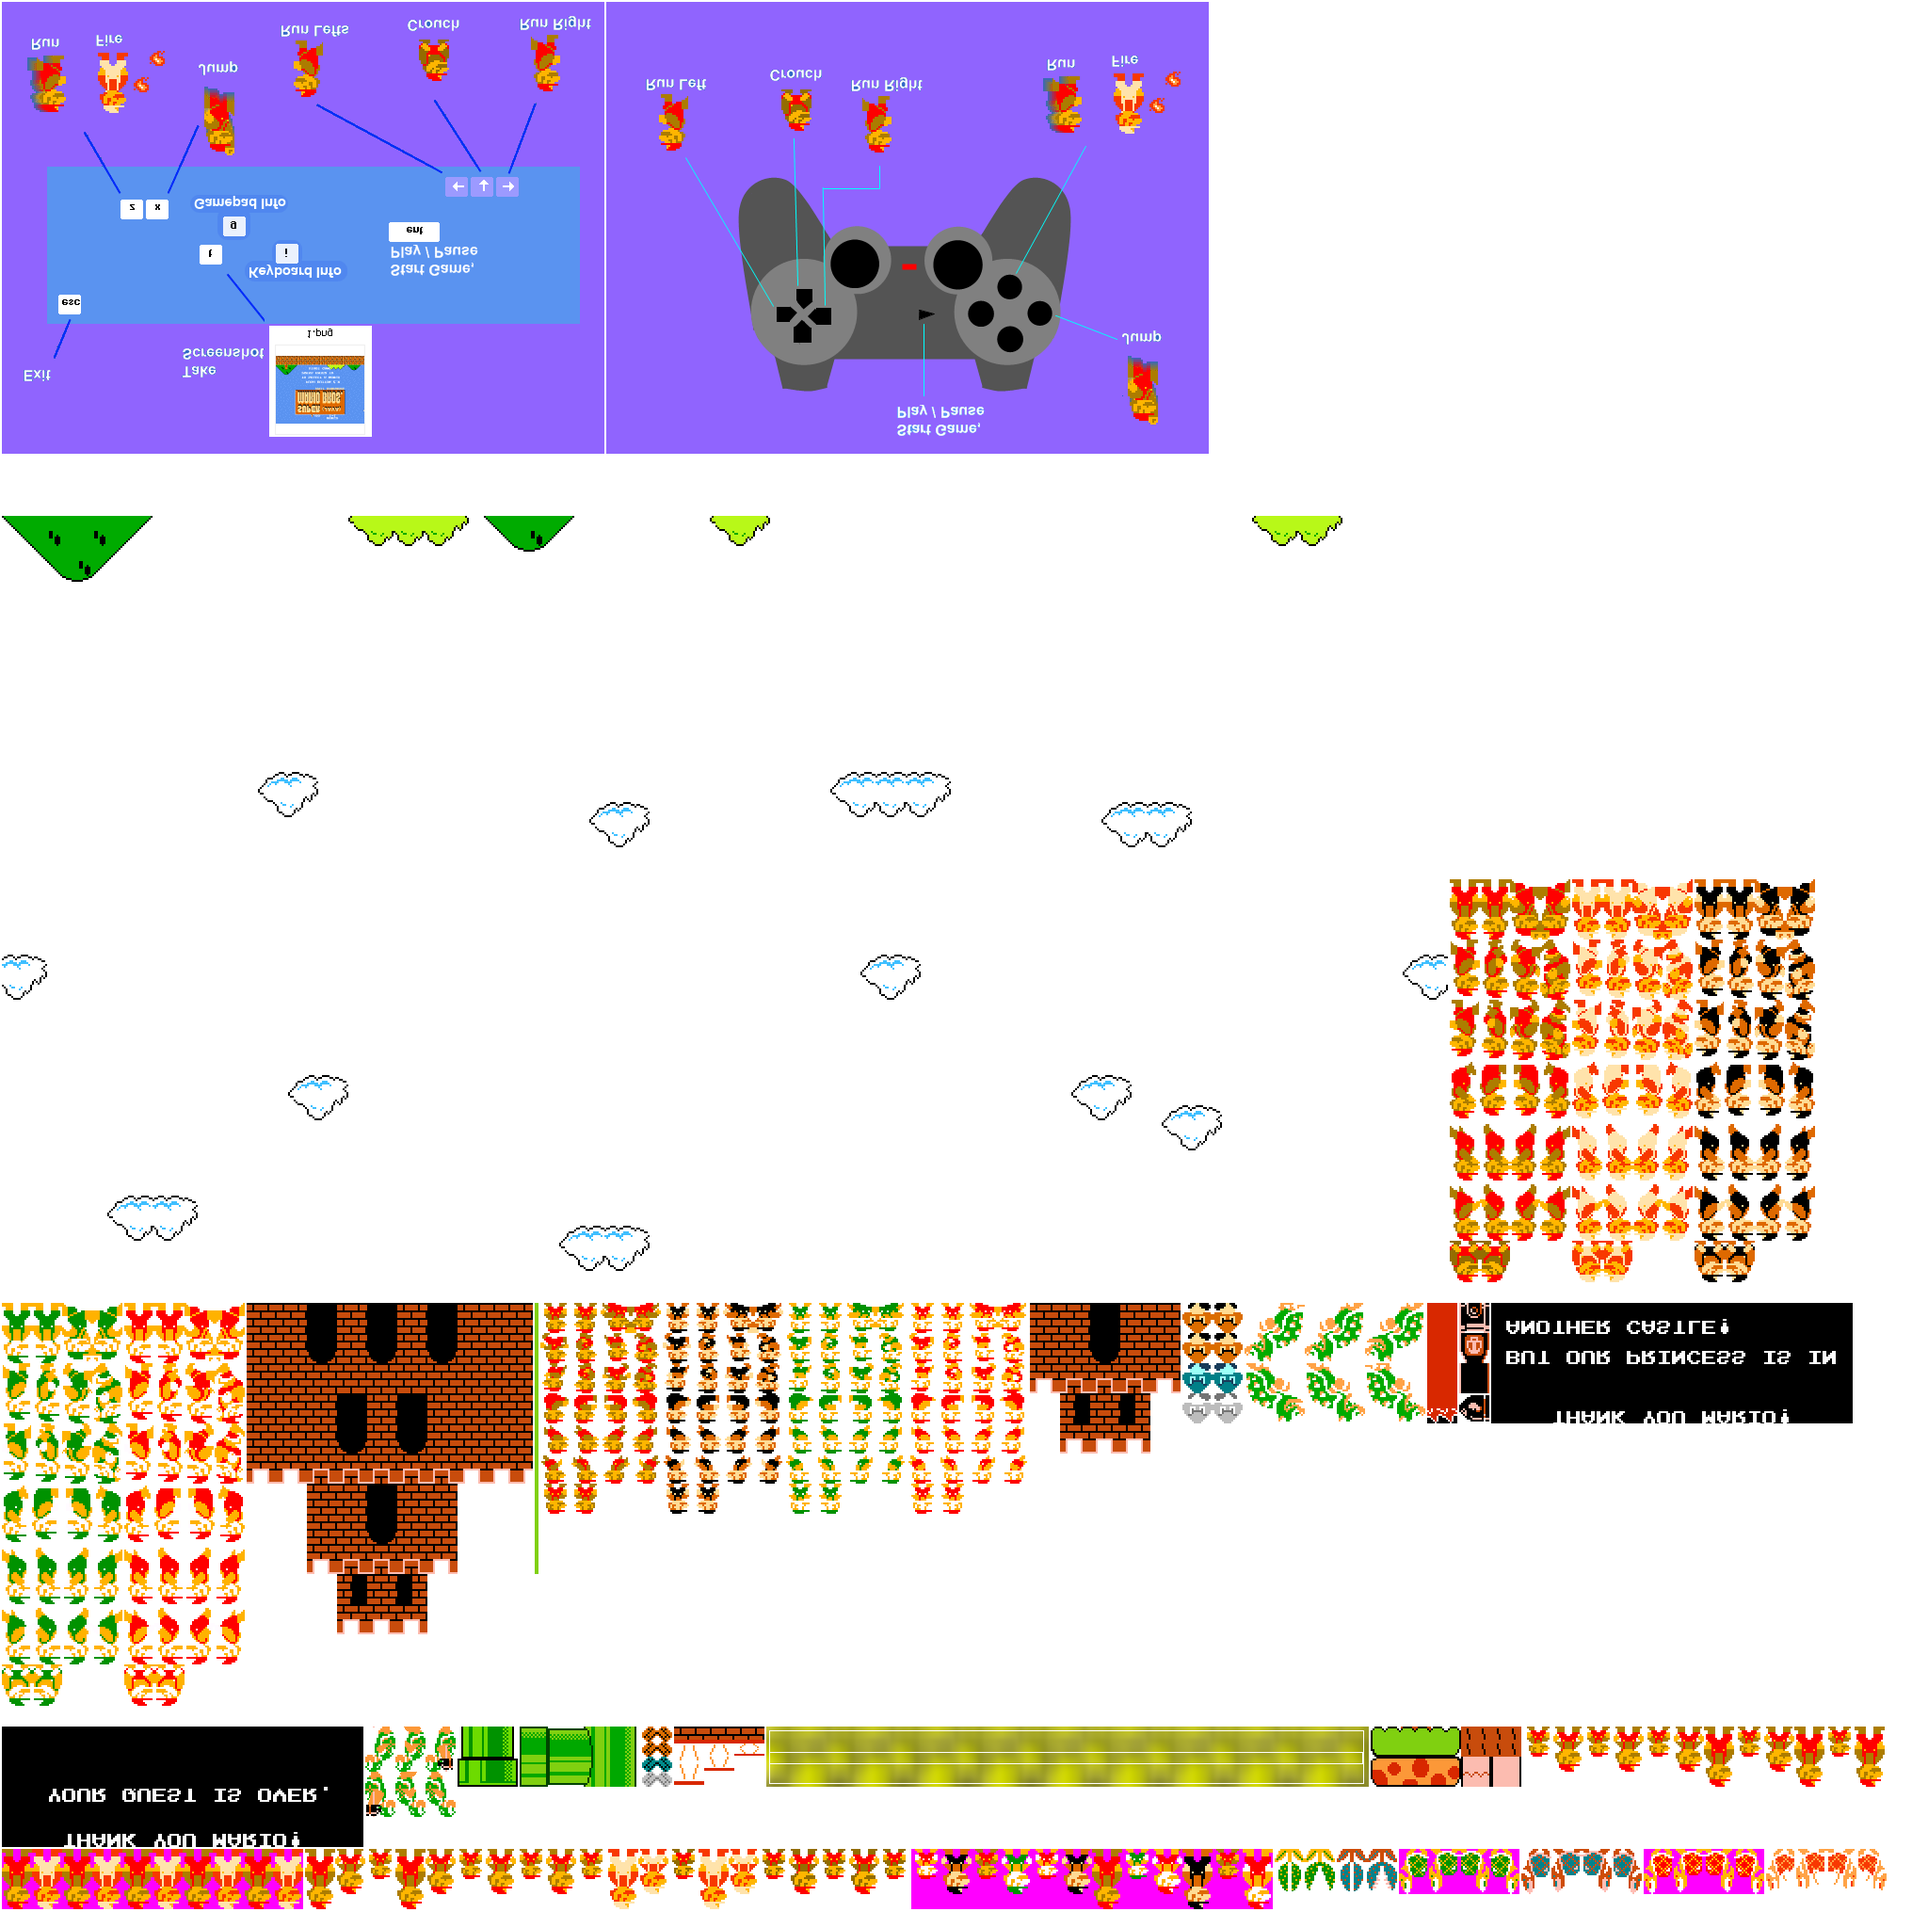
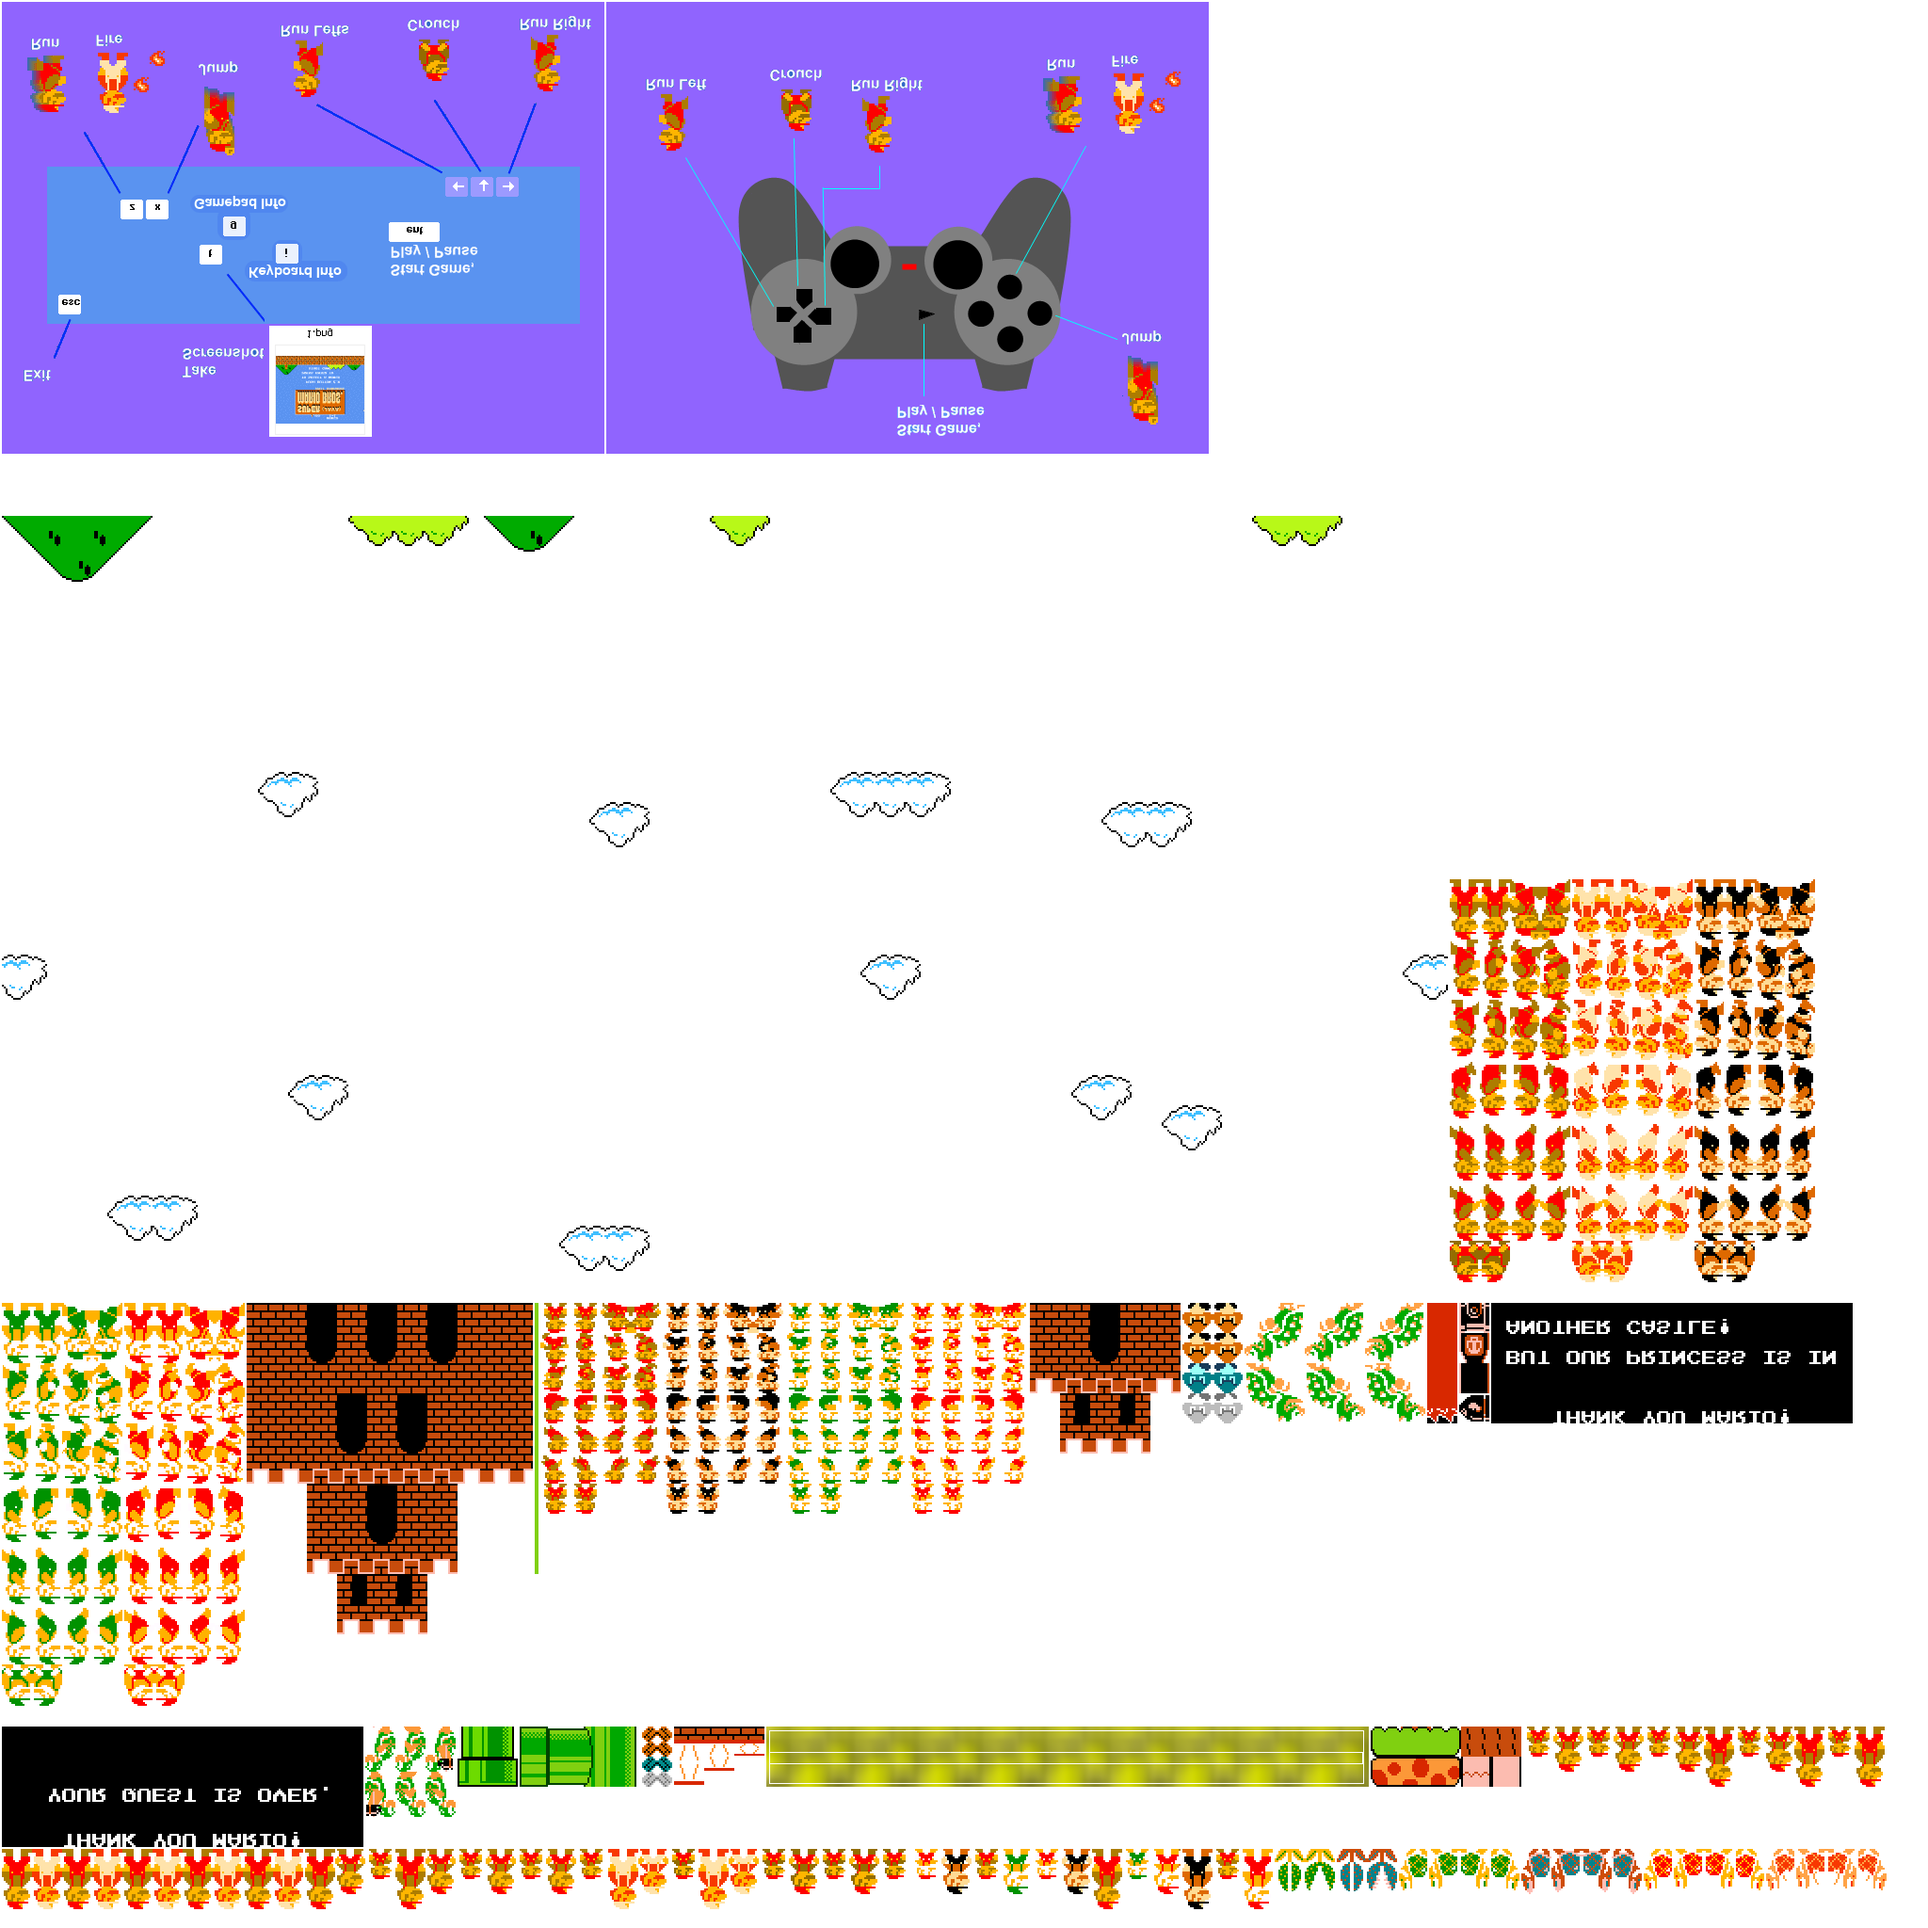
some bug fix

diff --git a/tools/mario-atlas-packer/src/PackMarioAtlas.java b/tools/mario-atlas-packer/src/PackMarioAtlas.java
@@ -1,4 +1,5 @@
 import javax.imageio.ImageIO;
+import java.awt.Color;
 import java.awt.Graphics2D;
 import java.awt.image.BufferedImage;
 import java.io.File;
@@ -308,7 +309,7 @@ public class PackMarioAtlas {
             if (img == null) {
                 throw new IllegalStateException("Failed to read " + f);
             }
-            loaded.add(new LoadedAsset(spec, img));
+            loaded.add(new LoadedAsset(spec, applyMagentaMask(img)));
         }
         for (TerrainTile tile : TERRAIN_TILES) {
             loaded.add(new LoadedAsset(
@@ -421,6 +422,39 @@ public class PackMarioAtlas {
         }
         System.out.println("Wrote " + atlasFile + " (" + placements.size()
                 + " regions across " + pages.size() + " page(s))");
+    }
+
+    /**
+     * Replicates the original engine's own default image loading exactly:
+     * {@code com.golden.gamedev.Game} constructs its {@code bsLoader} as
+     * {@code new BaseLoader(bsIO, Color.MAGENTA)}, and {@code BaseLoader}'s
+     * {@code getImage(name)}/{@code getImages(name, col, row)} - the plain
+     * overloads {@code WholeGame.java} uses for every single registered
+     * asset, confirmed by grep: no call site ever passes the {@code false}
+     * that would opt out - both default {@code useMask=true}, which
+     * {@code ImageUtil.applyMask} implements as an *exact* RGB match against
+     * the mask color, turning any such pixel fully transparent (alpha 0,
+     * RGB unchanged). Without this, any source PNG that relies on this
+     * old-style "magenta = transparent" convention instead of real alpha
+     * (confirmed by hand: {@code turtle.png}/{@code EnemyTurtlePatrol.png}
+     * are both fully-opaque, alpha-less {@code P}-mode PNGs with a solid
+     * magenta background) packs with an opaque purple background instead of
+     * a transparent one. Applying this unconditionally to every asset (not
+     * just the ones currently known to need it) matches the original
+     * exactly and is a no-op for any asset that has no magenta pixels to
+     * begin with (real-alpha PNGs, or ones whose background just isn't
+     * magenta) - cheaper and more robust than special-casing per asset.
+     */
+    private static BufferedImage applyMagentaMask(BufferedImage img) {
+        int maskRgb = Color.MAGENTA.getRGB();
+        BufferedImage masked = new BufferedImage(img.getWidth(), img.getHeight(), BufferedImage.TYPE_INT_ARGB);
+        for (int y = 0; y < img.getHeight(); y++) {
+            for (int x = 0; x < img.getWidth(); x++) {
+                int argb = img.getRGB(x, y);
+                masked.setRGB(x, y, (argb | 0xFF000000) == maskRgb ? argb & 0x00FFFFFF : argb);
+            }
+        }
+        return masked;
     }
 
     private static BufferedImage findImage(List<LoadedAsset> loaded, AssetSpec spec) {

diff --git a/app/src/main/java/au/com/guidebee/morsetoolkit/activity/mario/actors/bricks/Brick.java b/app/src/main/java/au/com/guidebee/morsetoolkit/activity/mario/actors/bricks/Brick.java
@@ -10,13 +10,25 @@ import au.com.guidebee.morsetoolkit.activity.mario.fx.BrickFragment;
 /**
  * A plain breakable brick, ported from {@code Bricks/Brick.java}. Big/fire
  * Mario breaks it into 4 physics-driven fragments (see {@link BrickFragment});
- * small Mario just bonks it - solid, nothing else happens. The original's
- * small-bonk "jitter" (the whole tile briefly jolting up/down) is a minor
- * cosmetic flourish and is skipped here.
+ * small Mario just bonks it - solid, and (see {@link #act}) the tile hops up
+ * a few pixels and settles back, with a "smb_bump" sound, ported from the
+ * original's own {@code HitFromDown()} (its {@code Gravity}/{@code Jump}
+ * fields drive the exact same kind of bounce via its own {@code update()} -
+ * this port uses a plain time-based parabola instead of replicating that
+ * tick-by-tick gravity/bitwise-NOT dance, which reads as an original-engine
+ * oddity rather than an intentional shape worth preserving verbatim).
  */
 public class Brick extends InteractiveBrick {
 
+    private static final float PHYSICS_FPS = 60f;
+    /** ~9 original ticks - matches {@code Bricks/Brick.java}'s own {@code Gravity} ramp from -5 back up past +4. */
+    private static final float BUMP_DURATION_TICKS = 9f;
+    private static final float BUMP_PEAK_OFFSET_PX = 10f;
+
     private final String attribute;
+    private final float restY;
+    /** &gt;= 0 while the bump animation plays, in original-tick units; negative means "not bumping". */
+    private float bumpTicks = -1;
 
     public Brick(float x, float y, String attribute) {
         this(x, y, MarioResourceManager.themedRegion("brick", attribute), attribute);
@@ -34,6 +46,23 @@ public class Brick extends InteractiveBrick {
     public Brick(float x, float y, TextureRegion region, String fragmentAttribute) {
         super(region, x, y);
         this.attribute = fragmentAttribute;
+        this.restY = y;
+    }
+
+    @Override
+    public void act(float delta) {
+        super.act(delta);
+        if (bumpTicks < 0) {
+            return;
+        }
+        bumpTicks += delta * PHYSICS_FPS;
+        if (bumpTicks >= BUMP_DURATION_TICKS) {
+            bumpTicks = -1;
+            setY(restY);
+        } else {
+            float t = bumpTicks / BUMP_DURATION_TICKS;
+            setY(restY - BUMP_PEAK_OFFSET_PX * 4f * t * (1f - t));
+        }
     }
 
     @Override
@@ -41,6 +70,9 @@ public class Brick extends InteractiveBrick {
         if (player.getPowerState() != PlayerPowerState.SMALL) {
             BrickFragment.spawnBreak(getX(), getY(), attribute);
             deactivate();
+        } else {
+            MarioResourceManager.sound("smb_bump").play();
+            bumpTicks = 0;
         }
     }
 }
